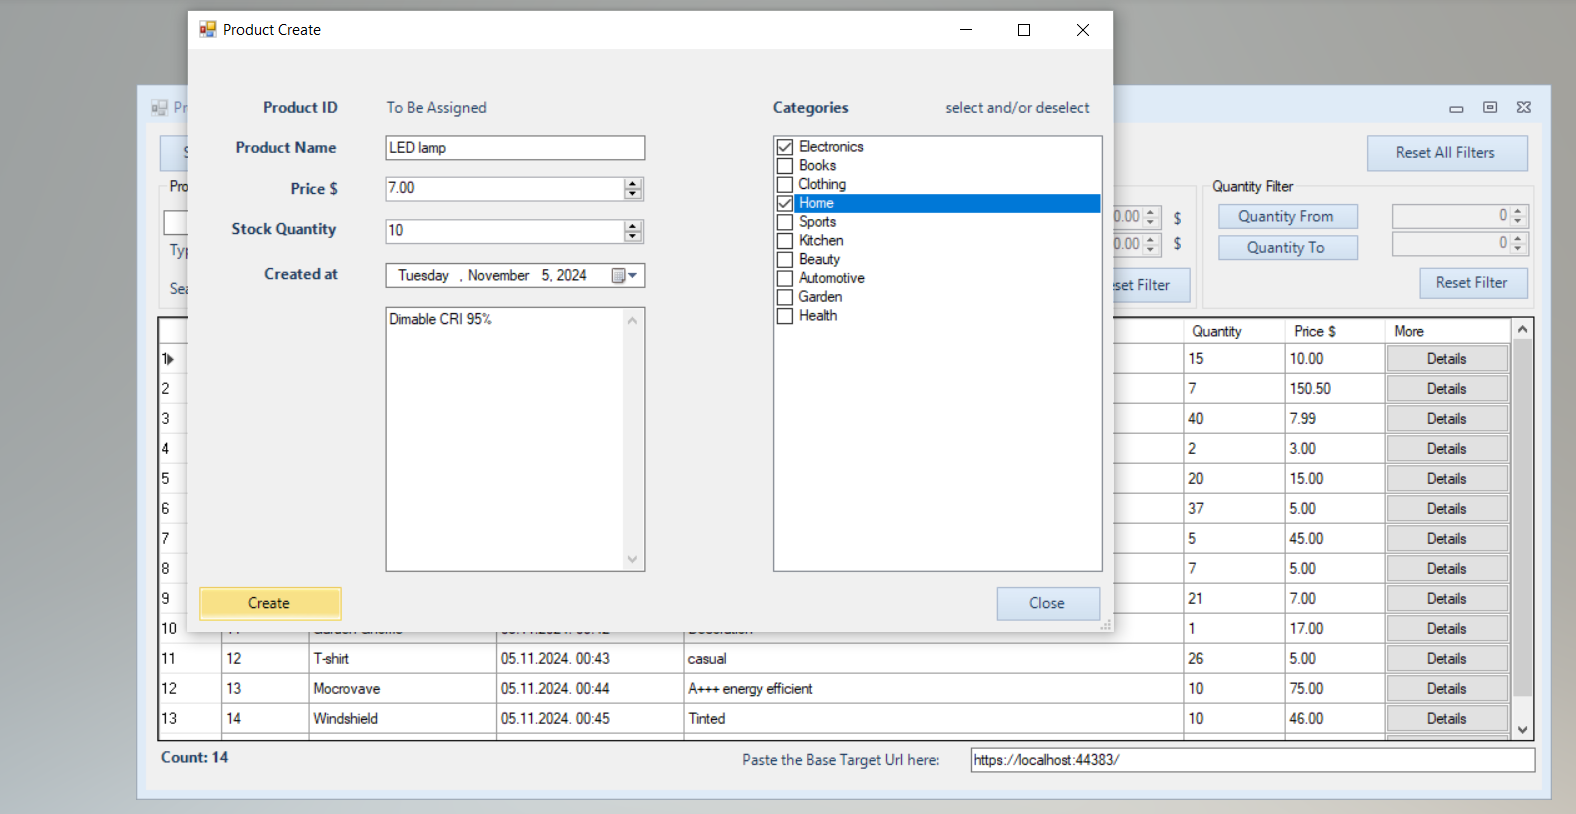
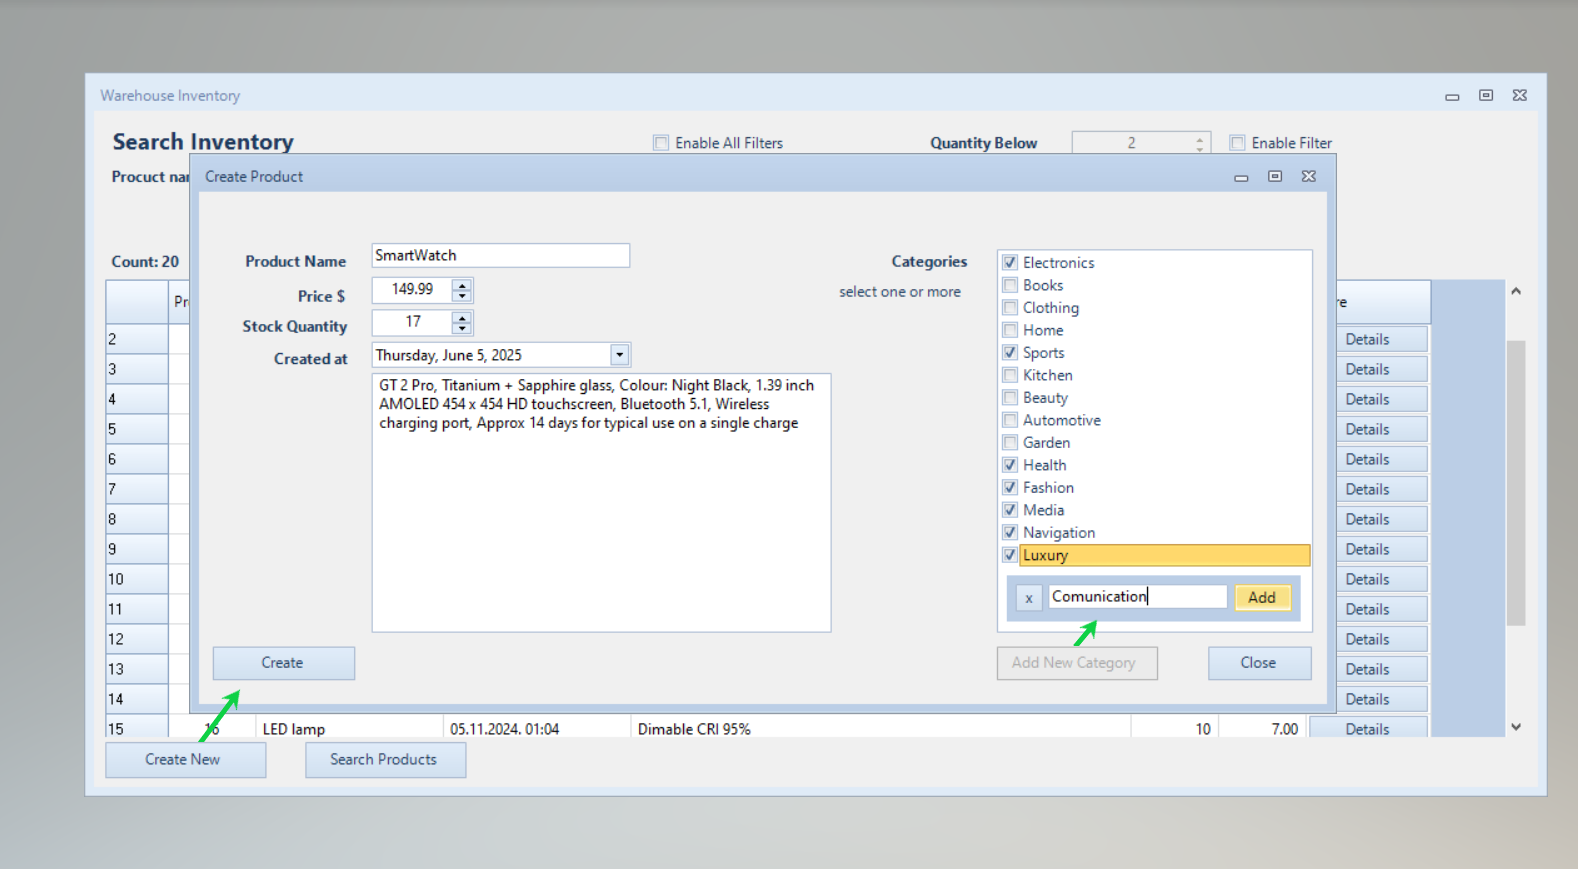
WarehouseUI: Minor UI adjustments to ProductCreate and update ScreenShots to reflect the changes

diff --git a/UI/WarehouseUI/ProductCreate.Designer.cs b/UI/WarehouseUI/ProductCreate.Designer.cs
@@ -48,12 +48,13 @@
             this.dtProductCreatedAt = new Krypton.Toolkit.KryptonDateTimePicker();
             this.btnPromptAddCategoryPanel = new Krypton.Toolkit.KryptonButton();
             this.tbNewCategoryName = new Krypton.Toolkit.KryptonTextBox();
-            this.NewCategoryDialog = new Krypton.Toolkit.KryptonPanel();
+            this.NewCategoryDialogPanel = new Krypton.Toolkit.KryptonPanel();
             this.btnAddCategory = new Krypton.Toolkit.KryptonButton();
+            this.CloseNewCategoryDialogPanel = new Krypton.Toolkit.KryptonButton();
             ((System.ComponentModel.ISupportInitialize)(this.SearchMaskPanel)).BeginInit();
             this.SearchMaskPanel.SuspendLayout();
-            ((System.ComponentModel.ISupportInitialize)(this.NewCategoryDialog)).BeginInit();
-            this.NewCategoryDialog.SuspendLayout();
+            ((System.ComponentModel.ISupportInitialize)(this.NewCategoryDialogPanel)).BeginInit();
+            this.NewCategoryDialogPanel.SuspendLayout();
             this.SuspendLayout();
             // 
             // label2
@@ -153,7 +154,7 @@
             this.lblSearch.Anchor = ((System.Windows.Forms.AnchorStyles)(((System.Windows.Forms.AnchorStyles.Top | System.Windows.Forms.AnchorStyles.Bottom) 
             | System.Windows.Forms.AnchorStyles.Right)));
             this.lblSearch.Font = new System.Drawing.Font("Microsoft Sans Serif", 9F, System.Drawing.FontStyle.Regular, System.Drawing.GraphicsUnit.Point, ((byte)(0)));
-            this.lblSearch.Location = new System.Drawing.Point(105, 17);
+            this.lblSearch.Location = new System.Drawing.Point(89, 17);
             this.lblSearch.Name = "lblSearch";
             this.lblSearch.Size = new System.Drawing.Size(157, 24);
             this.lblSearch.TabIndex = 24;
@@ -176,7 +177,7 @@
             this.kryptonProgressBar1.Location = new System.Drawing.Point(14, 47);
             this.kryptonProgressBar1.MarqueeAnimationSpeed = 200;
             this.kryptonProgressBar1.Name = "kryptonProgressBar1";
-            this.kryptonProgressBar1.Size = new System.Drawing.Size(244, 31);
+            this.kryptonProgressBar1.Size = new System.Drawing.Size(289, 31);
             this.kryptonProgressBar1.StateCommon.Back.Color1 = System.Drawing.Color.Green;
             this.kryptonProgressBar1.StateDisabled.Back.ColorStyle = Krypton.Toolkit.PaletteColorStyle.OneNote;
             this.kryptonProgressBar1.StateNormal.Back.ColorStyle = Krypton.Toolkit.PaletteColorStyle.OneNote;
@@ -188,6 +189,7 @@
             // 
             this.cbCategories.Anchor = ((System.Windows.Forms.AnchorStyles)(((System.Windows.Forms.AnchorStyles.Top | System.Windows.Forms.AnchorStyles.Bottom) 
             | System.Windows.Forms.AnchorStyles.Right)));
+            this.cbCategories.CheckOnClick = true;
             this.cbCategories.Location = new System.Drawing.Point(850, 57);
             this.cbCategories.Name = "cbCategories";
             this.cbCategories.Size = new System.Drawing.Size(337, 378);
@@ -230,7 +232,7 @@
             0,
             0});
             this.numProductPrice.Name = "numProductPrice";
-            this.numProductPrice.Size = new System.Drawing.Size(107, 26);
+            this.numProductPrice.Size = new System.Drawing.Size(109, 26);
             this.numProductPrice.TabIndex = 49;
             this.numProductPrice.Value = new decimal(new int[] {
             0,
@@ -279,38 +281,47 @@
             this.btnPromptAddCategoryPanel.Anchor = ((System.Windows.Forms.AnchorStyles)((System.Windows.Forms.AnchorStyles.Bottom | System.Windows.Forms.AnchorStyles.Right)));
             this.btnPromptAddCategoryPanel.Location = new System.Drawing.Point(850, 448);
             this.btnPromptAddCategoryPanel.Name = "btnPromptAddCategoryPanel";
-            this.btnPromptAddCategoryPanel.Size = new System.Drawing.Size(150, 33);
+            this.btnPromptAddCategoryPanel.Size = new System.Drawing.Size(172, 33);
             this.btnPromptAddCategoryPanel.TabIndex = 52;
             this.btnPromptAddCategoryPanel.Values.Text = "Add New Category";
             this.btnPromptAddCategoryPanel.Click += new System.EventHandler(this.btnPromptAddCategoryPanel_Click);
             // 
             // tbNewCategoryName
             // 
-            this.tbNewCategoryName.CueHint.CueHintText = "enter new category name";
-            this.tbNewCategoryName.Location = new System.Drawing.Point(9, 9);
+            this.tbNewCategoryName.Location = new System.Drawing.Point(44, 9);
             this.tbNewCategoryName.Name = "tbNewCategoryName";
-            this.tbNewCategoryName.Size = new System.Drawing.Size(217, 27);
+            this.tbNewCategoryName.Size = new System.Drawing.Size(192, 27);
             this.tbNewCategoryName.TabIndex = 53;
             // 
-            // NewCategoryDialog
+            // NewCategoryDialogPanel
             // 
-            this.NewCategoryDialog.Anchor = ((System.Windows.Forms.AnchorStyles)((System.Windows.Forms.AnchorStyles.Bottom | System.Windows.Forms.AnchorStyles.Right)));
-            this.NewCategoryDialog.Controls.Add(this.btnAddCategory);
-            this.NewCategoryDialog.Controls.Add(this.tbNewCategoryName);
-            this.NewCategoryDialog.Location = new System.Drawing.Point(862, 378);
-            this.NewCategoryDialog.Name = "NewCategoryDialog";
-            this.NewCategoryDialog.Size = new System.Drawing.Size(313, 45);
-            this.NewCategoryDialog.TabIndex = 54;
-            this.NewCategoryDialog.Visible = false;
+            this.NewCategoryDialogPanel.Anchor = ((System.Windows.Forms.AnchorStyles)((System.Windows.Forms.AnchorStyles.Bottom | System.Windows.Forms.AnchorStyles.Right)));
+            this.NewCategoryDialogPanel.Controls.Add(this.CloseNewCategoryDialogPanel);
+            this.NewCategoryDialogPanel.Controls.Add(this.btnAddCategory);
+            this.NewCategoryDialogPanel.Controls.Add(this.tbNewCategoryName);
+            this.NewCategoryDialogPanel.Location = new System.Drawing.Point(862, 378);
+            this.NewCategoryDialogPanel.Name = "NewCategoryDialogPanel";
+            this.NewCategoryDialogPanel.Size = new System.Drawing.Size(313, 45);
+            this.NewCategoryDialogPanel.TabIndex = 54;
+            this.NewCategoryDialogPanel.Visible = false;
             // 
             // btnAddCategory
             // 
-            this.btnAddCategory.Location = new System.Drawing.Point(232, 9);
+            this.btnAddCategory.Location = new System.Drawing.Point(242, 9);
             this.btnAddCategory.Name = "btnAddCategory";
-            this.btnAddCategory.Size = new System.Drawing.Size(71, 27);
+            this.btnAddCategory.Size = new System.Drawing.Size(61, 27);
             this.btnAddCategory.TabIndex = 55;
             this.btnAddCategory.Values.Text = "Add";
             this.btnAddCategory.Click += new System.EventHandler(this.btnAddCategory_Click);
+            // 
+            // CloseNewCategoryDialogPanel
+            // 
+            this.CloseNewCategoryDialogPanel.Location = new System.Drawing.Point(9, 9);
+            this.CloseNewCategoryDialogPanel.Name = "CloseNewCategoryDialogPanel";
+            this.CloseNewCategoryDialogPanel.Size = new System.Drawing.Size(29, 27);
+            this.CloseNewCategoryDialogPanel.TabIndex = 56;
+            this.CloseNewCategoryDialogPanel.Values.Text = "x";
+            this.CloseNewCategoryDialogPanel.Click += new System.EventHandler(this.CloseNewCategoryDialogPanel_Click);
             // 
             // ProductCreate
             // 
@@ -318,7 +329,7 @@
             this.AutoScaleMode = System.Windows.Forms.AutoScaleMode.Font;
             this.AutoSizeMode = System.Windows.Forms.AutoSizeMode.GrowAndShrink;
             this.ClientSize = new System.Drawing.Size(1201, 496);
-            this.Controls.Add(this.NewCategoryDialog);
+            this.Controls.Add(this.NewCategoryDialogPanel);
             this.Controls.Add(this.btnPromptAddCategoryPanel);
             this.Controls.Add(this.dtProductCreatedAt);
             this.Controls.Add(this.numProductQuantity);
@@ -344,9 +355,9 @@
             ((System.ComponentModel.ISupportInitialize)(this.SearchMaskPanel)).EndInit();
             this.SearchMaskPanel.ResumeLayout(false);
             this.SearchMaskPanel.PerformLayout();
-            ((System.ComponentModel.ISupportInitialize)(this.NewCategoryDialog)).EndInit();
-            this.NewCategoryDialog.ResumeLayout(false);
-            this.NewCategoryDialog.PerformLayout();
+            ((System.ComponentModel.ISupportInitialize)(this.NewCategoryDialogPanel)).EndInit();
+            this.NewCategoryDialogPanel.ResumeLayout(false);
+            this.NewCategoryDialogPanel.PerformLayout();
             this.ResumeLayout(false);
             this.PerformLayout();
 
@@ -373,7 +384,8 @@
         private Krypton.Toolkit.KryptonDateTimePicker dtProductCreatedAt;
         private Krypton.Toolkit.KryptonButton btnPromptAddCategoryPanel;
         private Krypton.Toolkit.KryptonTextBox tbNewCategoryName;
-        private Krypton.Toolkit.KryptonPanel NewCategoryDialog;
+        private Krypton.Toolkit.KryptonPanel NewCategoryDialogPanel;
         private Krypton.Toolkit.KryptonButton btnAddCategory;
+        private Krypton.Toolkit.KryptonButton CloseNewCategoryDialogPanel;
     }
 }

diff --git a/UI/WarehouseUI/ProductCreate.cs b/UI/WarehouseUI/ProductCreate.cs
@@ -93,12 +93,12 @@ namespace WarehouseUI
         private void SwitchAddCategoryUi()
         {
             btnPromptAddCategoryPanel.Enabled = !btnPromptAddCategoryPanel.Enabled;
-            NewCategoryDialog.Visible = !NewCategoryDialog.Visible;
+            NewCategoryDialogPanel.Visible = !NewCategoryDialogPanel.Visible;
         }
 
         private async void btnAddCategory_Click(object sender, EventArgs e)
         {
-            string newCategoryInput = tbDescription.Text.Trim();
+            string newCategoryInput = tbNewCategoryName.Text.Trim();
 
             if (string.IsNullOrEmpty(newCategoryInput))
             {
@@ -124,6 +124,12 @@ namespace WarehouseUI
             {
                 throw new Exception();
             }
+        }
+
+        private void CloseNewCategoryDialogPanel_Click(object sender, EventArgs e)
+        {
+            tbNewCategoryName.Clear();
+            SwitchAddCategoryUi();
         }
     }
 }
